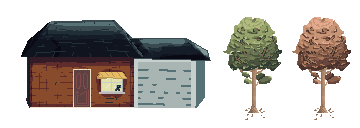
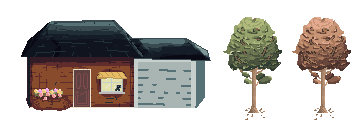
New house sprite (flower box); never rain
Claude-Session: https://claude.ai/code/session_01Xiux81LEqjvUithNNjQsjc

Changed region(s): [[0.0611, 0.6875, 0.2139, 0.875]]

diff --git a/js/game.js b/js/game.js
@@ -12,7 +12,7 @@ if (qs.has('hour')) { const d = new Date(); tOff = parseFloat(qs.get('hour')) - 
 // ---- time, weather --------------------------------------------------------
 function hourNow() { const d = new Date(); return (((d.getHours() + d.getMinutes() / 60 + d.getSeconds() / 3600 + tOff) % 24) + 24) % 24; }
 const isNight = () => { const h = hourNow(); return h >= 19.5 || h < 5.5; };
-function isRain() { if (qs.has('rain')) return qs.get('rain') === '1'; return hash2(Math.floor(Date.now() / 1200000), 77) < 0.2; }
+function isRain() { return qs.get('rain') === '1'; }   // always sunny (?rain=1 still forces rain for testing)
 const TINT = [[0, [52, 62, 124]], [5, [62, 72, 134]], [6.5, [250, 190, 150]], [8.5, [255, 248, 236]], [16.5, [255, 241, 218]], [18, [255, 205, 150]], [19.5, [204, 132, 142]], [21, [92, 92, 152]], [24, [52, 62, 124]]];
 function tintAt(h) {
   for (let i = 1; i < TINT.length; i++) if (h <= TINT[i][0]) { const a = TINT[i - 1], b = TINT[i], k = (h - a[0]) / (b[0] - a[0]); return a[1].map((v, j) => Math.round(v + (b[1][j] - v) * k)); }
